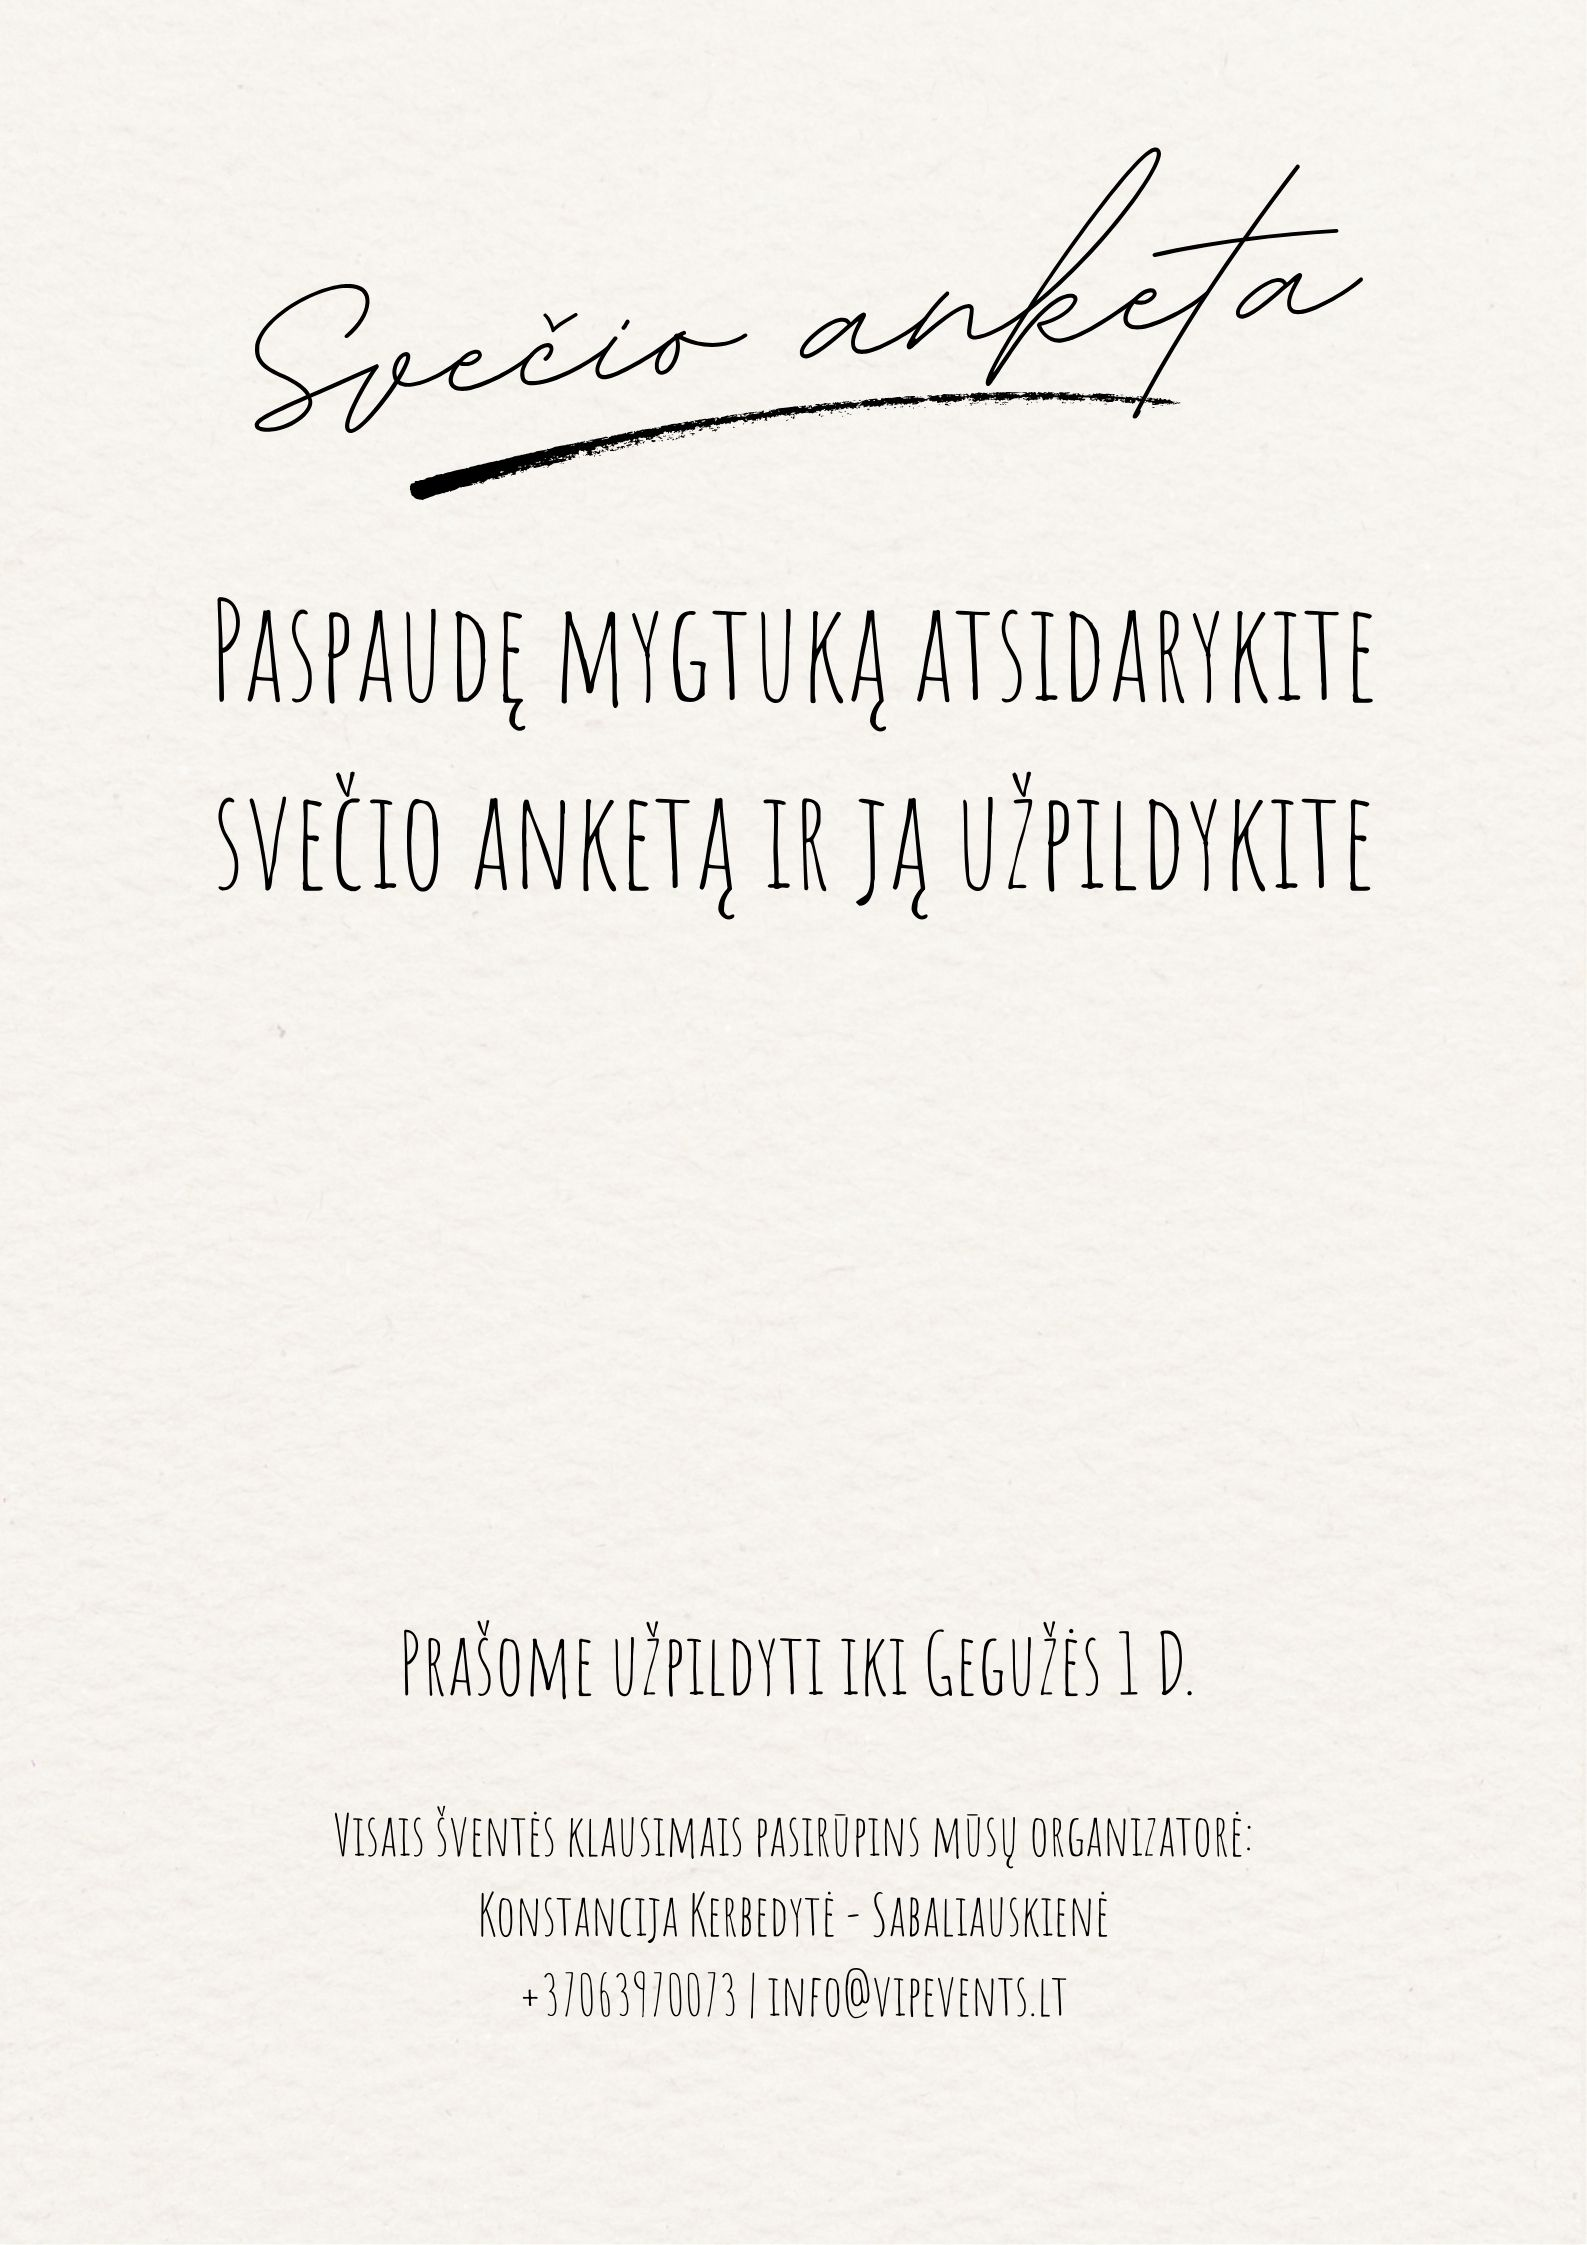
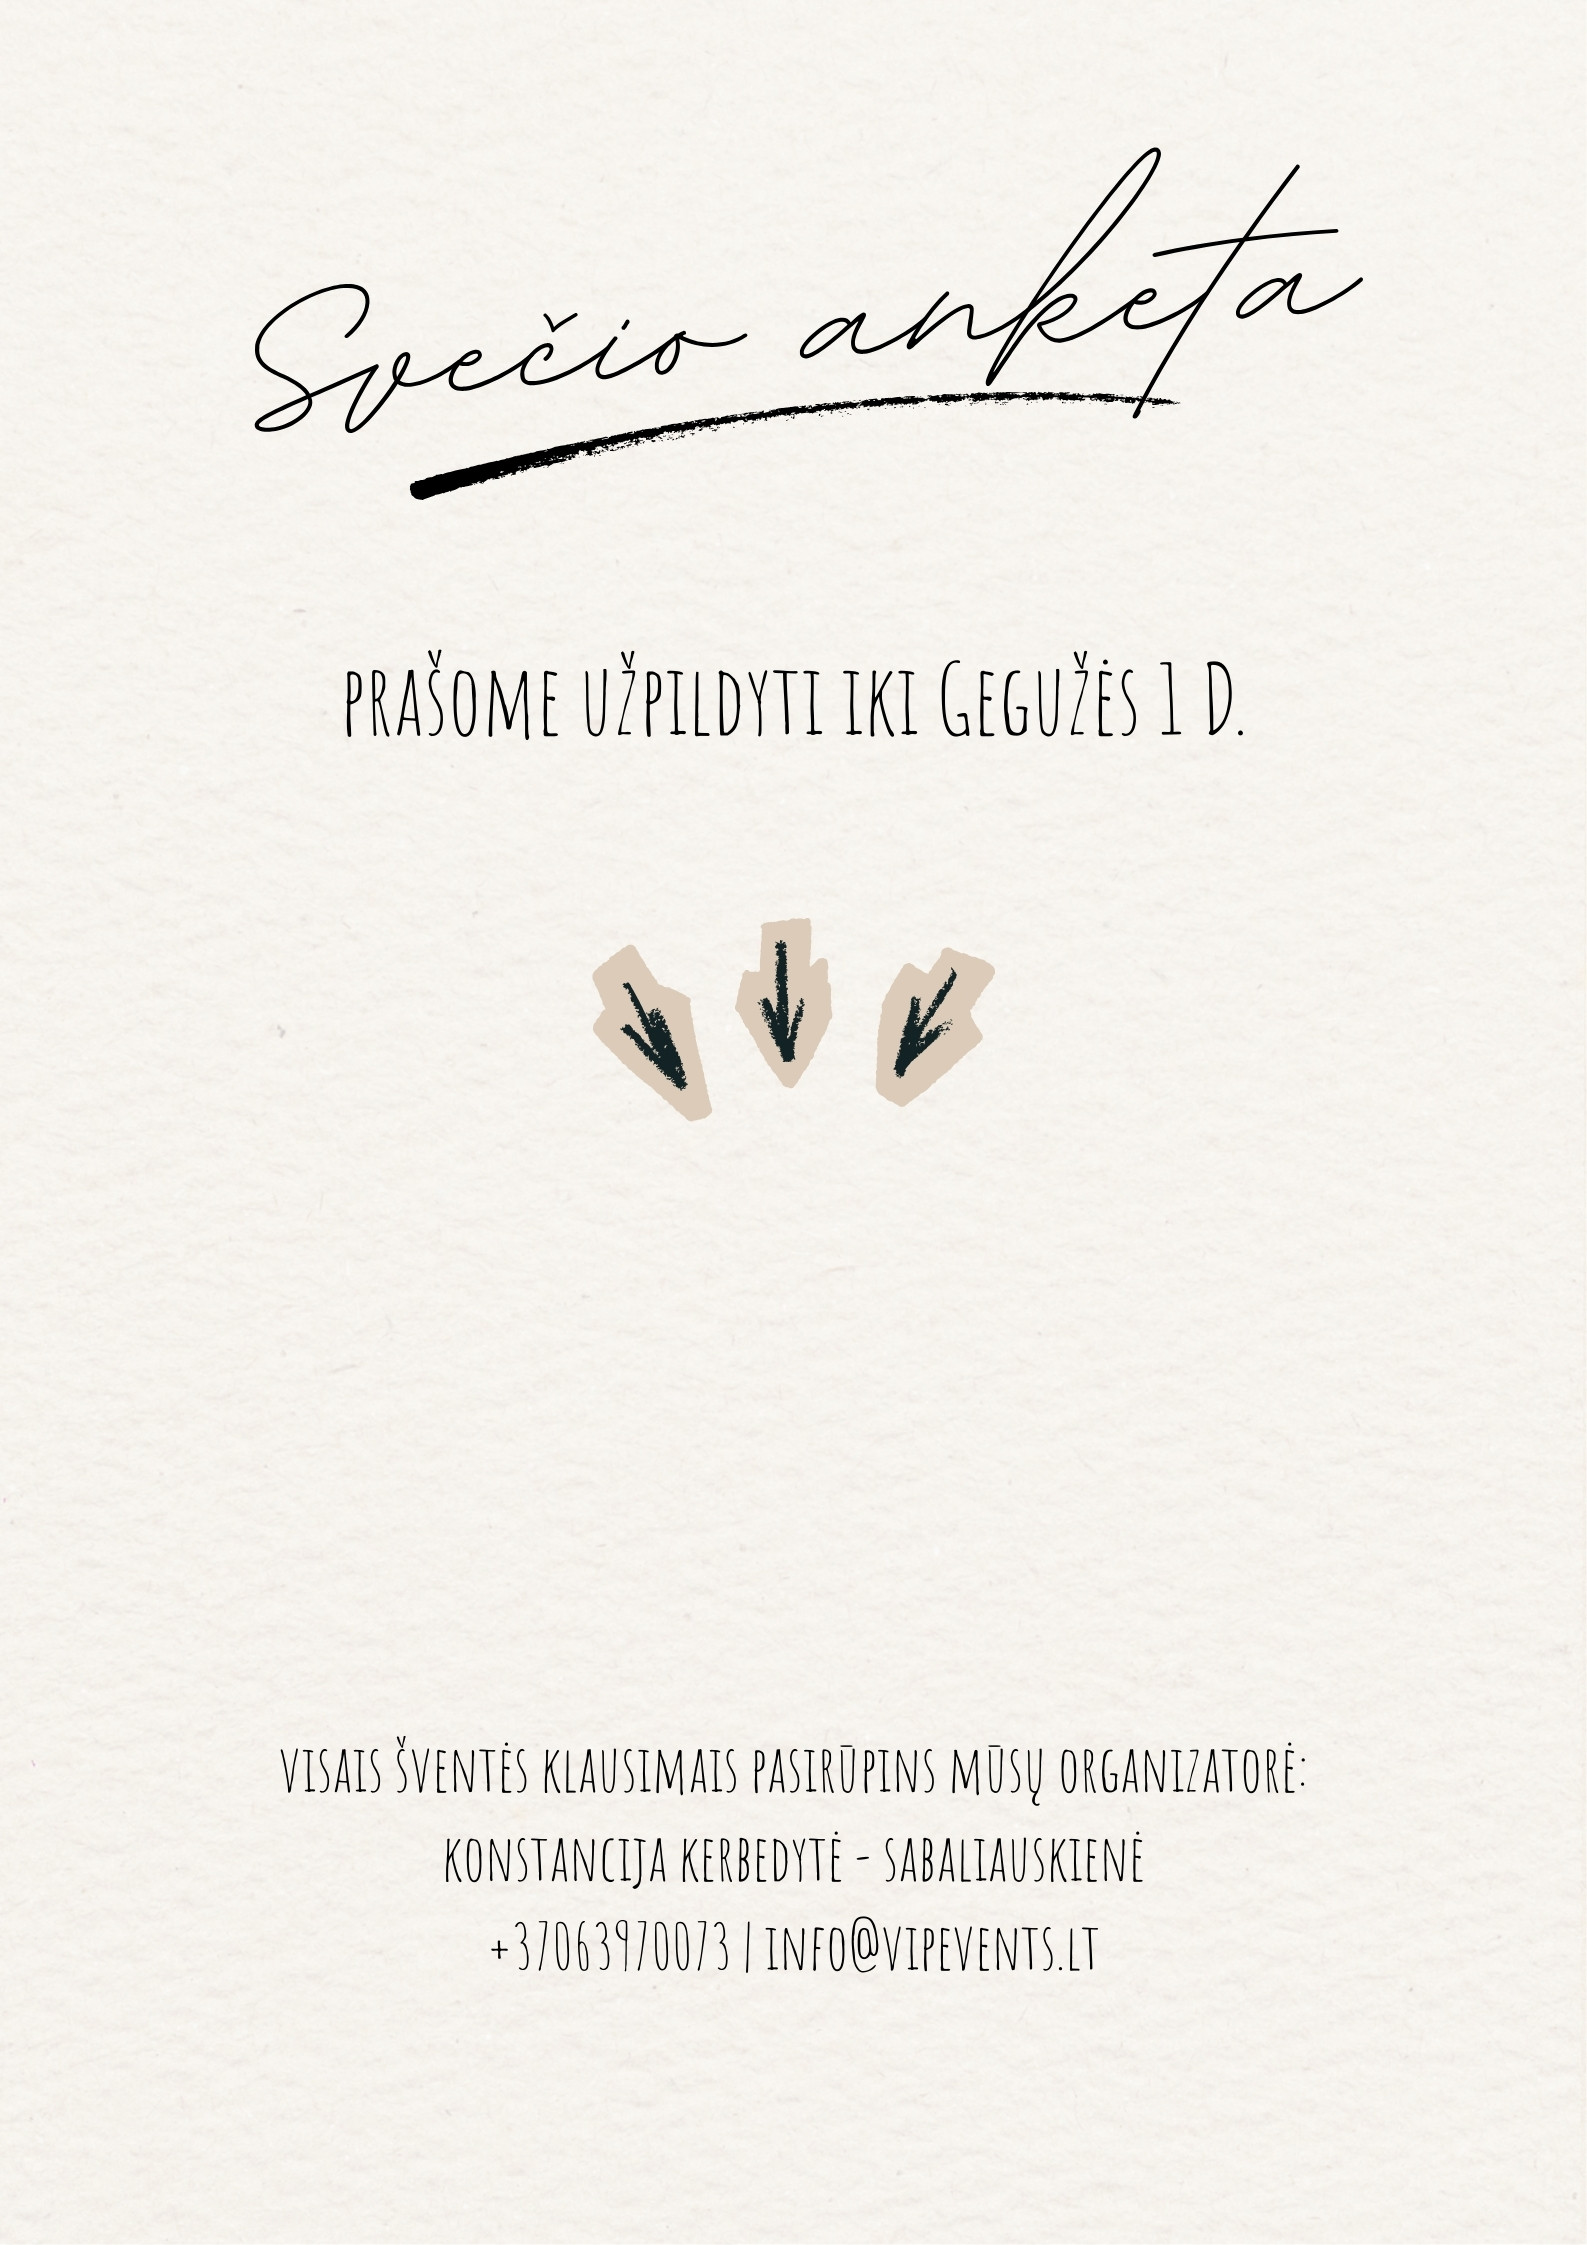
final touches

diff --git a/style.css b/style.css
@@ -74,7 +74,7 @@ body {
   left: 0;
   width: 100%;
   height: 100%;
-  background-image: url("images/hero-bg.jpg");
+  background-image: url("images/location-bg.jpg");
   background-size: cover;
   background-position: center;
   transform: scale(1.2) translateY(8%);
@@ -291,7 +291,7 @@ body {
   background-image: url("images/rsvp-bg.jpg");
   background-size: cover;
   background-position: center;
-  transform: scale(1.05);
+  transform: scale(1);
   z-index: -1;
 }
 
@@ -331,7 +331,7 @@ body {
 /* MYGTUKAS */
 .rsvp__btn {
   position: absolute;
-  bottom: 39%;
+  bottom: 36%;
   left: 50%;
   transform: translateX(-50%) rotate(-1.5deg) scale(1);
 

diff --git a/index.html b/index.html
@@ -81,7 +81,7 @@
           </div>
           <p class="details reveal">
             Pridedame žemėlapį – spustelėkite piešinėlius ir lengvai rasite
-            šventės vietas. Lauksime jūsų! 🤍
+            šventės vietas. Lauksime jūsų!
           </p>
           <div class="location__images reveal">
             <div class="location--church">
